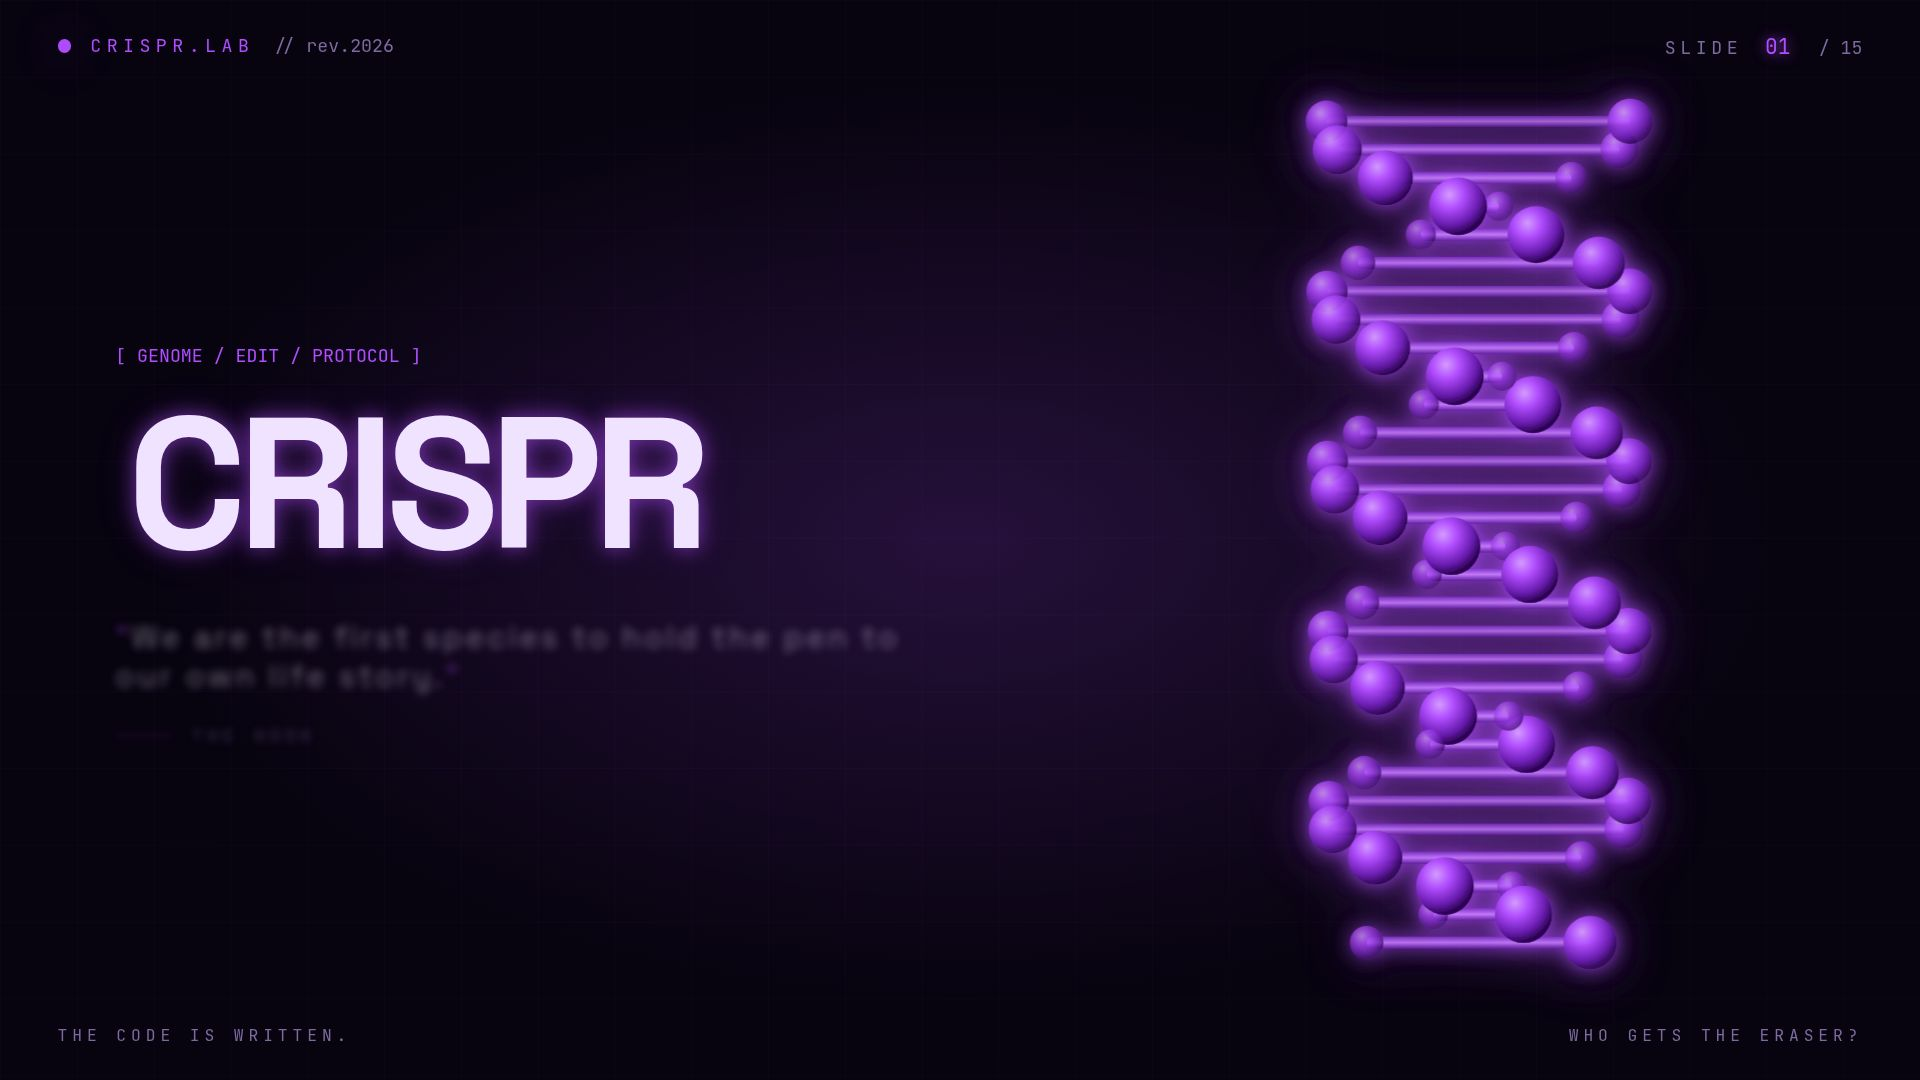
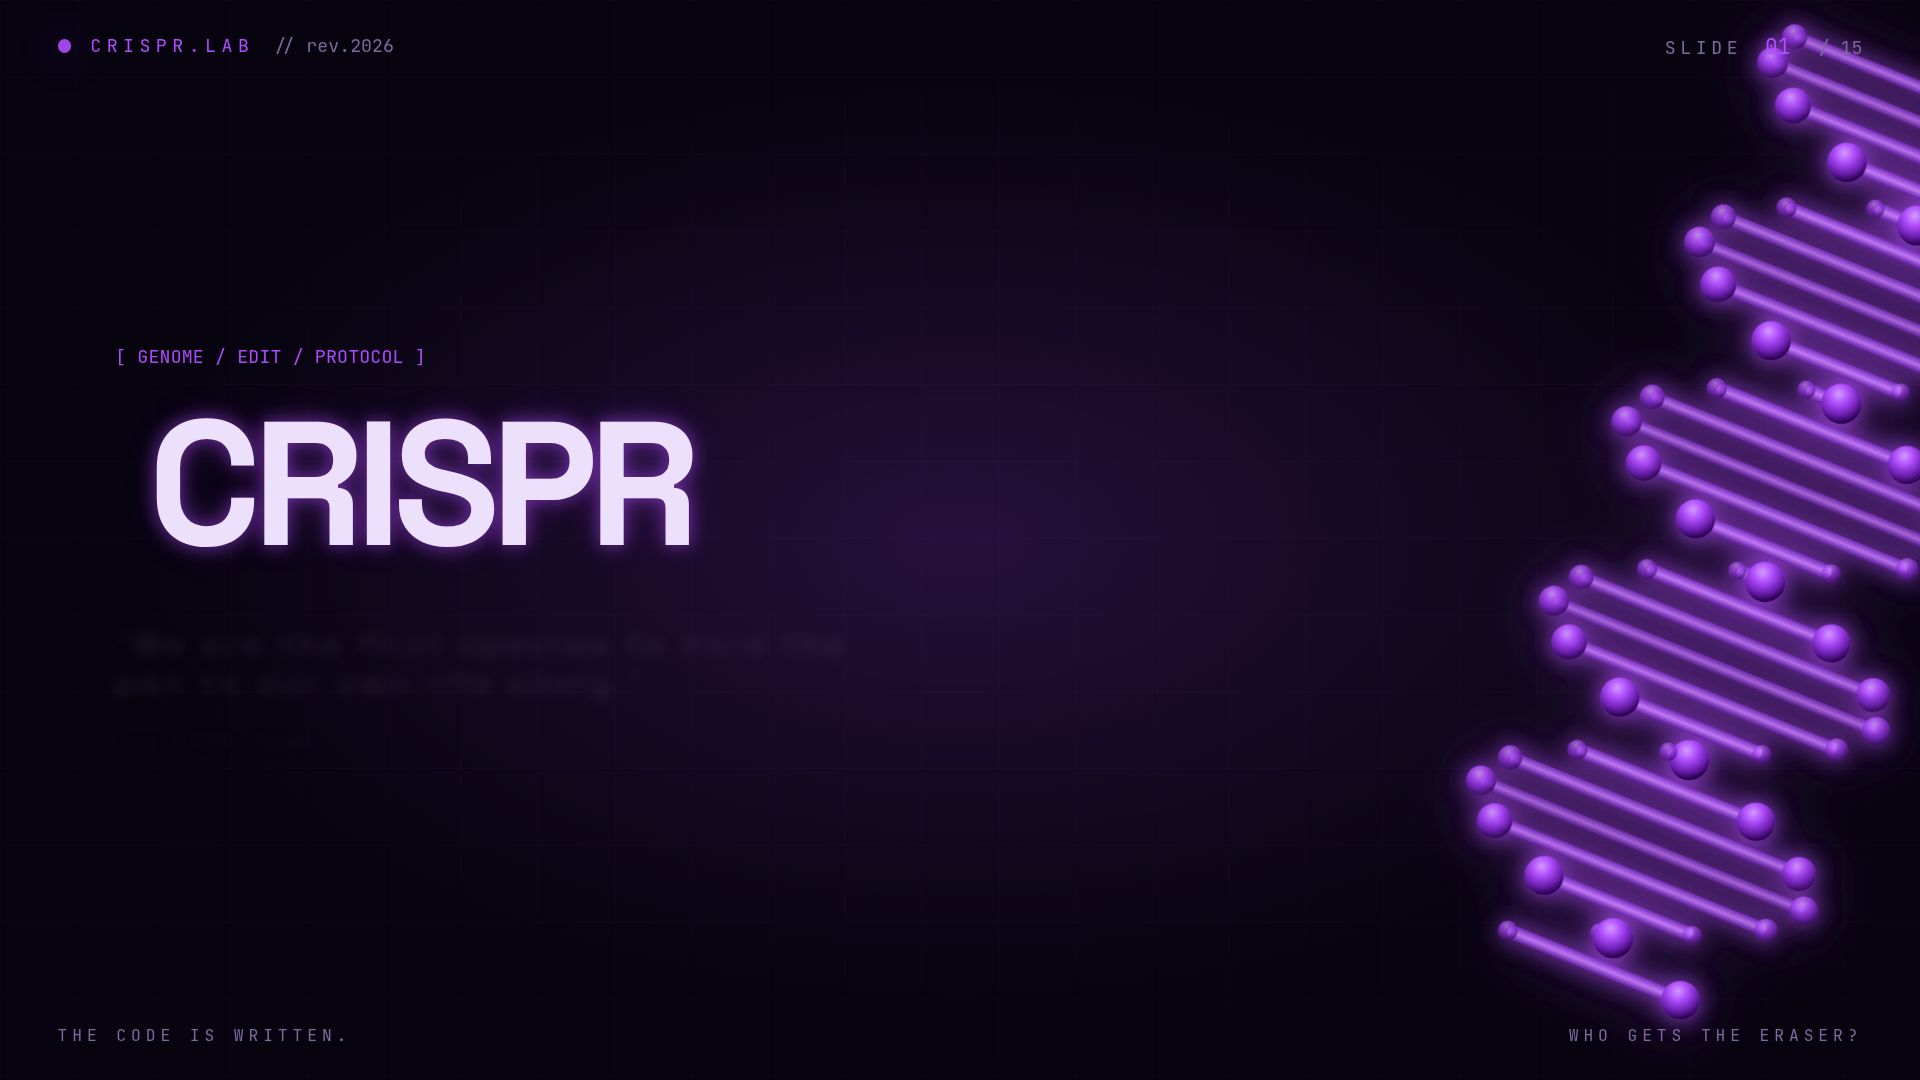
Make DNA helix smaller and tilt it outwards
Adjust DNA helix size and rotation in the title slide, reducing bead radius and tilting the element for an outward extension.

Replit-Commit-Author: Agent
Replit-Commit-Session-Id: 3b18fbcb-9325-42a6-a823-950d40ee5492
Replit-Commit-Checkpoint-Type: full_checkpoint
Replit-Commit-Event-Id: 1415e62a-bd04-4713-ba35-252f43f03b8a
Replit-Commit-Screenshot-Url: https://storage.googleapis.com/screenshot-production-us-central1/f14ca61b-bc6a-46a7-8720-46ccaebc6cad/3b18fbcb-9325-42a6-a823-950d40ee5492/kM7L9QE
Replit-Helium-Checkpoint-Created: true

diff --git a/artifacts/crispr-deck/src/pages/slides/Slide01Title.tsx b/artifacts/crispr-deck/src/pages/slides/Slide01Title.tsx
@@ -90,7 +90,7 @@ function DoubleHelix() {
         {[...items]
           .sort((a, b) => a.depthA - b.depthA)
           .map((r) => {
-            const radius = 9 + r.depthA * 9;
+            const radius = 5 + r.depthA * 6;
             return (
               <circle
                 key={`a-${r.i}`}
@@ -105,7 +105,7 @@ function DoubleHelix() {
         {[...items]
           .sort((a, b) => a.depthB - b.depthB)
           .map((r) => {
-            const radius = 9 + r.depthB * 9;
+            const radius = 5 + r.depthB * 6;
             return (
               <circle
                 key={`b-${r.i}`}
@@ -128,7 +128,11 @@ export default function Slide01Title() {
       <SlideChrome index="01" />
 
       <div
-        className="absolute right-[6vw] top-1/2 -translate-y-1/2 w-[34vw] h-[110vh] pointer-events-none"
+        className="absolute -right-[12vw] top-1/2 w-[40vw] h-[130vh] pointer-events-none"
+        style={{
+          transform: "translateY(-50%) rotate(22deg)",
+          transformOrigin: "50% 50%",
+        }}
       >
         <div
           className="w-full h-full"
